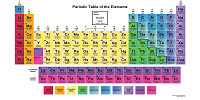
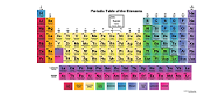
periodic table has fixed button, less distracting now

diff --git a/src/space/StartPanel.java b/src/space/StartPanel.java
@@ -215,18 +215,21 @@ public class StartPanel extends JPanel implements ActionListener, ChangeListener
        checkrmsPic();
        showrms.setBounds(column(1), row(1), 200, 100);
        showrms.addActionListener(this);
+       showrms.setBorderPainted(false);
        add(showrms); 
         
        showElementsButton = new JButton("Show Elements");
        showElementsButton.setBounds(column(2), row(1), 200, 100);
        showElementsButton.addActionListener(this);
        showElementsButton.setIcon(new ImageIcon("images/pTable200x100.png"));
+       showElementsButton.setBorderPainted(false);
        add(showElementsButton);       
        
        shipSelectorButton = new JButton("Select Ship");
        shipSelectorButton.setBounds(column(4), row(1), 200, 100);
        shipSelectorButton.addActionListener(this);
        shipSelectorButton.setIcon(new ImageIcon("images/ufo200x100.png"));
+       shipSelectorButton.setBorderPainted(false);
        if(!space.Space.thereIsAShip){
         shipSelectorButton.setVisible(false);
        }
@@ -510,6 +513,7 @@ space.Space.globalParticleSizeMultiplier = 2;
             if(space.Space.showStallman){
               //showrms.setText("Hiding rms");
                 showrms.setIcon(new ImageIcon("images/be200x100.png")); 
+                
            space.Space.showStallman = false;   
           // space.Space.gravityGetsStronger = false;
             }else{
